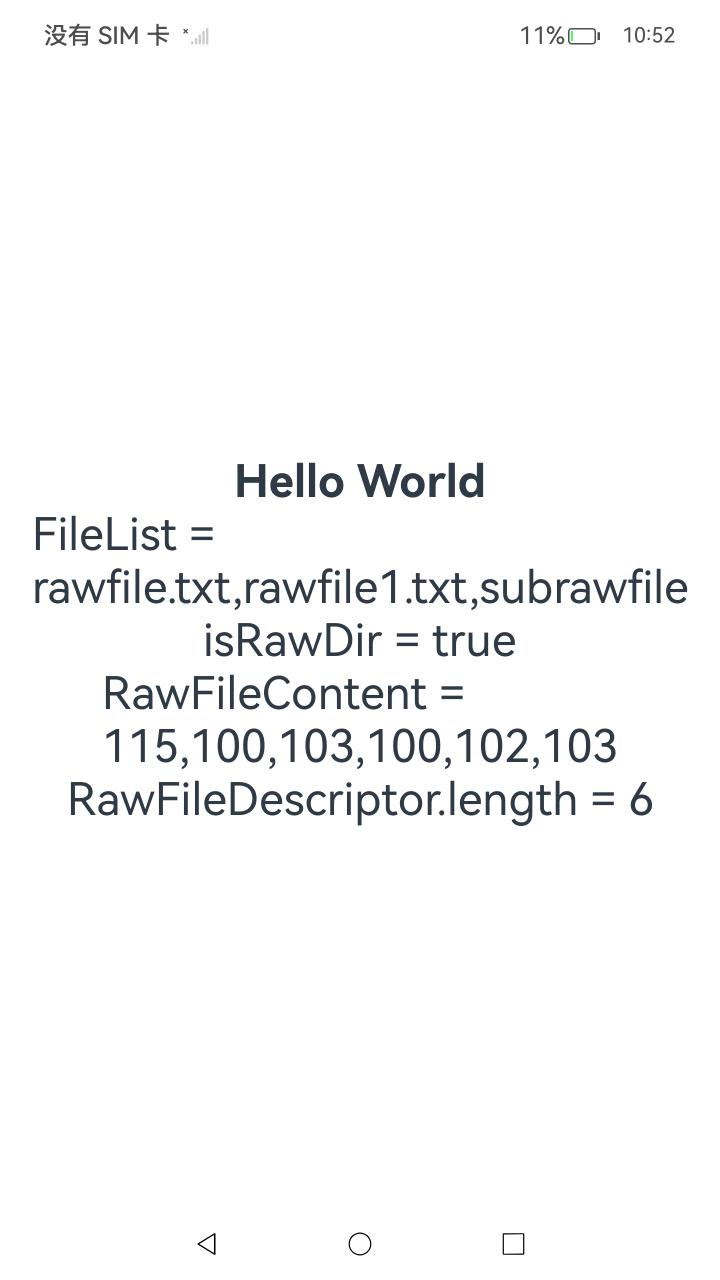
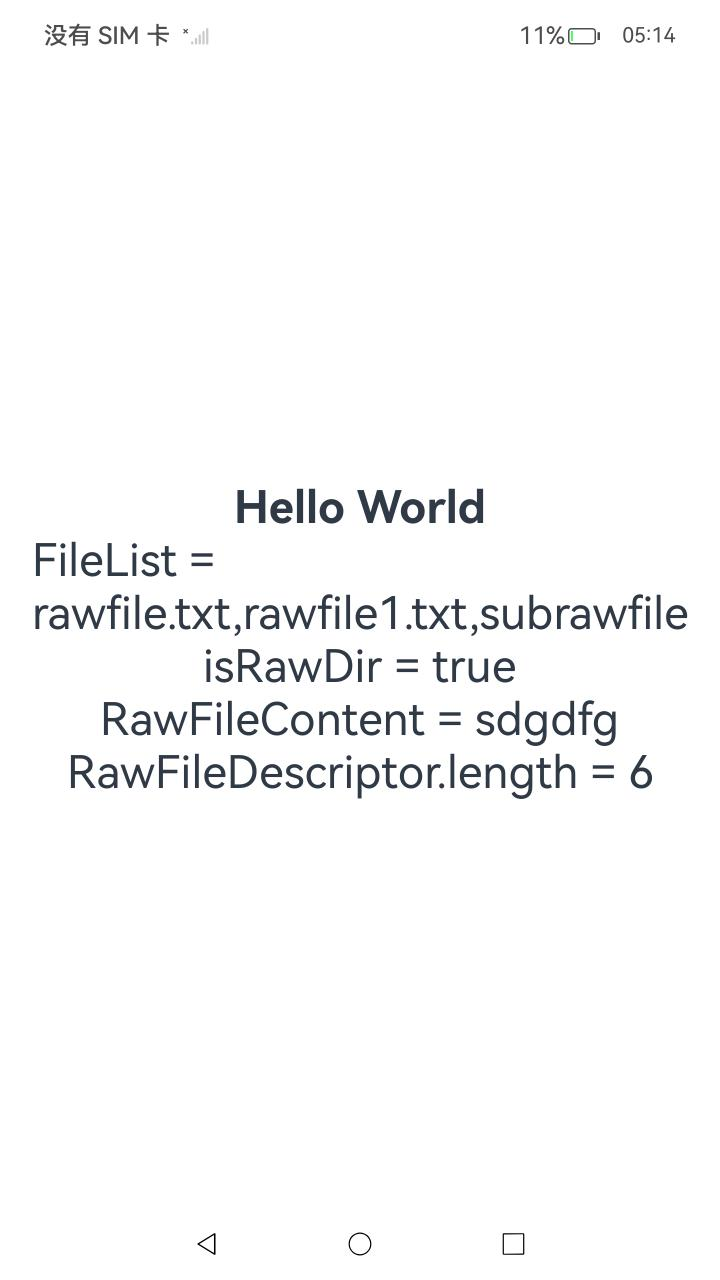
优化Rawfile开发指南示例代码
# Conflicts:
#	code/DocsSample/ResourceManagement/RawFile/entry/src/main/cpp/hello.cpp
#	code/DocsSample/ResourceManagement/RawFile/entry/src/main/ets/pages/Index.ets

Changed region(s): [[0.0306, 0.4062, 0.9472, 0.6562], [0.3056, 0.3438, 0.6722, 0.4062], [0.8556, 0.0, 0.9472, 0.0312]]

diff --git a/code/DocsSample/ResourceManagement/RawFile/entry/src/main/cpp/types/libentry/Index.d.ts b/code/DocsSample/ResourceManagement/RawFile/entry/src/main/cpp/types/libentry/Index.d.ts
@@ -17,4 +17,4 @@ import resourceManager from '@ohos.resourceManager';
 export const getFileList: (resmgr: resourceManager.ResourceManager, path: string) => Array<String>;
 export const getRawFileContent: (resmgr: resourceManager.ResourceManager, path: string) => Uint8Array;
 export const getRawFileDescriptor: (resmgr: resourceManager.ResourceManager, path: string) => resourceManager.RawFileDescriptor;
-export const isRawDir: (resmgr: resourceManager.ResourceManager, path: string) => Boolean;
+export const isRawDir: (resmgr: resourceManager.ResourceManager, path: string) => boolean;

diff --git a/code/DocsSample/ResourceManagement/RawFile/entry/src/main/cpp/hello.cpp b/code/DocsSample/ResourceManagement/RawFile/entry/src/main/cpp/hello.cpp
@@ -13,26 +13,29 @@
  * limitations under the License.
  */
 
+// [Start includes]
 #include <js_native_api.h>
 #include <js_native_api_types.h>
 #include <string>
 #include <vector>
-#include <iostream>
 #include <cstdlib>
 #include "napi/native_api.h"
 #include "rawfile/raw_file_manager.h"
 #include "rawfile/raw_file.h"
 #include "rawfile/raw_dir.h"
 #include "hilog/log.h"
+// [End includes]
 
+// [Start constants]
 const int GLOBAL_RESMGR = 0xFF00;
 const char *TAG = "[Sample_rawfile]";
+// [End constants]
 
+// [Start example_get_file_list]
 // 示例一：获取rawfile文件列表 GetFileList
 static napi_value GetFileList(napi_env env, napi_callback_info info)
 {
-    OH_LOG_Print(LOG_APP, LOG_ERROR, GLOBAL_RESMGR, TAG, "NDKTest Begin");
-    size_t requireArgc = 3;
+    OH_LOG_Print(LOG_APP, LOG_INFO, GLOBAL_RESMGR, TAG, "NDKTest GetFileList Begin");
     size_t argc = 2;
     napi_value argv[2] = { nullptr };
     // 获取参数信息
@@ -74,7 +77,9 @@ static napi_value GetFileList(napi_env env, napi_callback_info info)
     OH_ResourceManager_ReleaseNativeResourceManager(mNativeResMgr);
     return fileList;
 }
+// [End example_get_file_list]
 
+// [Start example_get_rawfile_content]
 // 示例二：获取rawfile文件内容 GetRawFileContent
 napi_value CreateJsArrayValue(napi_env env, std::unique_ptr<uint8_t[]> &data, long length)
 {
@@ -102,8 +107,7 @@ napi_value CreateJsArrayValue(napi_env env, std::unique_ptr<uint8_t[]> &data, lo
 
 static napi_value GetRawFileContent(napi_env env, napi_callback_info info)
 {
-    OH_LOG_Print(LOG_APP, LOG_ERROR, GLOBAL_RESMGR, TAG, "GetFileContent Begin");
-    size_t requireArgc = 3;
+    OH_LOG_Print(LOG_APP, LOG_INFO, GLOBAL_RESMGR, TAG, "GetFileContent Begin");
     size_t argc = 2;
     napi_value argv[2] = { nullptr };
     // 获取参数信息
@@ -119,7 +123,7 @@ static napi_value GetRawFileContent(napi_env env, napi_callback_info info)
     // 获取rawfile指针对象
     RawFile *rawFile = OH_ResourceManager_OpenRawFile(mNativeResMgr, filename.c_str());
     if (rawFile != nullptr) {
-        OH_LOG_Print(LOG_APP, LOG_ERROR, GLOBAL_RESMGR, TAG, "OH_ResourceManager_OpenRawFile success");
+        OH_LOG_Print(LOG_APP, LOG_INFO, GLOBAL_RESMGR, TAG, "OH_ResourceManager_OpenRawFile success");
     }
     // 获取rawfile大小并申请内存
     long len = OH_ResourceManager_GetRawFileSize(rawFile);
@@ -134,7 +138,9 @@ static napi_value GetRawFileContent(napi_env env, napi_callback_info info)
     // 转为js对象
     return CreateJsArrayValue(env, data, len);
 }
+// [End example_get_rawfile_content]
 
+// [Start example_get_rawfile_descriptor]
 // 示例三：获取rawfile文件描述符 GetRawFileDescriptor
 // 定义一个函数，将RawFileDescriptor转为js对象
 napi_value createJsFileDescriptor(napi_env env, RawFileDescriptor& descriptor)
@@ -183,16 +189,13 @@ napi_value createJsFileDescriptor(napi_env env, RawFileDescriptor& descriptor)
 
 static napi_value GetRawFileDescriptor(napi_env env, napi_callback_info info)
 {
-    OH_LOG_Print(LOG_APP, LOG_ERROR, GLOBAL_RESMGR, TAG, "NDKTest GetRawFileDescriptor Begin");
-    size_t requireArgc = 3;
+    OH_LOG_Print(LOG_APP, LOG_INFO, GLOBAL_RESMGR, TAG, "NDKTest GetRawFileDescriptor Begin");
     size_t argc = 2;
     napi_value argv[2] = { nullptr };
     // 获取参数信息
     napi_get_cb_info(env, info, &argc, argv, nullptr, nullptr);
-    
-    napi_valuetype valueType;
-    napi_typeof(env, argv[0], &valueType);
-    // 获取native的resourceManager对象
+
+    // argv[0]即为函数第一个参数Js资源对象，OH_ResourceManager_InitNativeResourceManager转为Native对象
     NativeResourceManager *mNativeResMgr = OH_ResourceManager_InitNativeResourceManager(env, argv[0]);
     size_t strSize;
     char strBuf[256];
@@ -201,7 +204,7 @@ static napi_value GetRawFileDescriptor(napi_env env, napi_callback_info info)
     // 获取rawfile指针对象
     RawFile *rawFile = OH_ResourceManager_OpenRawFile(mNativeResMgr, filename.c_str());
     if (rawFile != nullptr) {
-        OH_LOG_Print(LOG_APP, LOG_ERROR, GLOBAL_RESMGR, TAG, "OH_ResourceManager_OpenRawFile success");
+        OH_LOG_Print(LOG_APP, LOG_INFO, GLOBAL_RESMGR, TAG, "OH_ResourceManager_OpenRawFile success");
     }
     // 获取rawfile的描述符RawFileDescriptor {fd, offset, length}
     RawFileDescriptor descriptor;
@@ -212,7 +215,10 @@ static napi_value GetRawFileDescriptor(napi_env env, napi_callback_info info)
     // 转为js对象
     return createJsFileDescriptor(env, descriptor);
 }
+// [End example_get_rawfile_descriptor]
 
+// [Start example_is_raw_dir]
+// 示例四：判断路径是否是rawfile下的目录 IsRawDir
 napi_value CreateJsBool(napi_env env, bool &bValue)
 {
     napi_value jsValue = nullptr;
@@ -224,21 +230,19 @@ napi_value CreateJsBool(napi_env env, bool &bValue)
 
 static napi_value IsRawDir(napi_env env, napi_callback_info info)
 {
-    OH_LOG_Print(LOG_APP, LOG_ERROR, GLOBAL_RESMGR, TAG, "NDKTest IsRawDir Begin");
-    size_t requireArgc = 3;
+    OH_LOG_Print(LOG_APP, LOG_INFO, GLOBAL_RESMGR, TAG, "NDKTest IsRawDir Begin");
     size_t argc = 2;
     napi_value argv[2] = { nullptr };
     // 获取参数信息
     napi_get_cb_info(env, info, &argc, argv, nullptr, nullptr);
 
-    napi_valuetype valueType;
-    napi_typeof(env, argv[0], &valueType);
-    // 获取native的resourceManager对象
+    // argv[0]即为函数第一个参数Js资源对象，OH_ResourceManager_InitNativeResourceManager转为Native对象
     NativeResourceManager *mNativeResMgr = OH_ResourceManager_InitNativeResourceManager(env, argv[0]);
 
-    napi_valuetype valueType1;
-    napi_typeof(env, argv[1], &valueType);
-    if (valueType1 == napi_undefined || valueType1 == napi_null) {
+    napi_valuetype fileNameType;
+    napi_typeof(env, argv[1], &fileNameType);
+    if (fileNameType == napi_undefined || fileNameType == napi_null) {
+        OH_LOG_Print(LOG_APP, LOG_ERROR, GLOBAL_RESMGR, TAG, "NDKTest file name is null");
         bool temp = false;
         return CreateJsBool(env, temp);
     }
@@ -246,12 +250,14 @@ static napi_value IsRawDir(napi_env env, napi_callback_info info)
     char strBuf[256];
     napi_get_value_string_utf8(env, argv[1], strBuf, sizeof(strBuf), &strSize);
     std::string filename(strBuf, strSize);
-    // 获取rawfile指针对象
-    bool result = OH_ResourceManager_OpenRawFile(mNativeResMgr, filename.c_str());
+    // 判断是否是rawfile下的目录
+    bool result = OH_ResourceManager_IsRawDir(mNativeResMgr, filename.c_str());
     OH_ResourceManager_ReleaseNativeResourceManager(mNativeResMgr);
     return CreateJsBool(env, result);
 }
+// [End example_is_raw_dir]
 
+// [Start module_registration]
 EXTERN_C_START
 static napi_value Init(napi_env env, napi_value exports)
 {
@@ -266,6 +272,7 @@ static napi_value Init(napi_env env, napi_value exports)
     return exports;
 }
 EXTERN_C_END
+// [End module_registration]
 
 static napi_module demoModule = {
     .nm_version = 1,
@@ -281,4 +288,3 @@ extern "C" __attribute__((constructor)) void RegisterEntryModule(void)
 {
     napi_module_register(&demoModule);
 }
-

diff --git a/code/DocsSample/ResourceManagement/RawFile/README.md b/code/DocsSample/ResourceManagement/RawFile/README.md
@@ -2,13 +2,13 @@
 
 ### 介绍
 
-本工程主要实现了[Rawfile开发指导](https://docs.openharmony.cn/pages/v5.0/zh-cn/application-dev/napi/rawfile-guidelines.md)中功能，开发者可以通过本项目了解如何使用Native Rawfile接口操作Rawfile目录和文件。功能包括文件列表遍历、文件打开、搜索、读取和关闭Rawfile。
+本工程主要实现了[Rawfile开发指导](https://gitee.com/openharmony/docs/blob/OpenHarmony-5.1.0-Release/zh-cn/application-dev/napi/rawfile-guidelines.md)中功能，开发者可以通过本项目了解如何使用Native Rawfile接口操作Rawfile目录和文件。功能包括文件列表遍历、文件打开、搜索、读取和关闭Rawfile。
 
 ### 效果预览
 
-| 显示页面                                                     | 点击后日志打印效果                              |
-| ------------------------------------------------------------ | ----------------------------------------------- |
-| ![](screenshots/RawFile_Index1.png) | ![](screenshots/log.png) |
+| 显示页面                                                     | 点击Hello World后的页面                   | 点击后日志打印效果                              |
+| ------------------------------------------------------------|-------------------------------------| ----------------------------------------------- |
+| ![](screenshots/RawFile_Index1.png) | ![](screenshots/RawFile_Index2.png) | ![](screenshots/log.png) |
 
 ### 使用说明
 
@@ -41,8 +41,8 @@ RawFile/entry/src/
 
 ### 具体实现
 
-- 想要使用Native Rawfile接口操作Rawfile目录和文件。功能包括文件列表遍历、文件打开、搜索、读取和关闭Rawfile，需要在CPP目录下的index.d.ts文件中声明应用侧函数getFileList()、getRawFileContent()、getRawFileDescriptor()。
-- 在hallo.cpp中实现getFileList()、getRawFileContent()、getRawFileDescriptor()的具体代码，实际操作逻辑。
+- 想要使用Native Rawfile接口操作Rawfile目录和文件。功能包括文件列表遍历、文件打开、搜索、读取和关闭Rawfile，需要在CPP目录下的index.d.ts文件中声明应用侧函数getFileList()、getRawFileContent()、getRawFileDescriptor()、isRawDir()。
+- 在hello.cpp中实现getFileList()、getRawFileContent()、getRawFileDescriptor()、isRawDir()的具体代码，实际操作逻辑。
 - 在ets目录下的index.ets文件就可以通过import testNapi from "libentry.so";导入相关库，进行对上述函数的调用。
 
 ### 相关权限
@@ -55,9 +55,9 @@ RawFile/entry/src/
 
 ### 约束与限制
 
-1. 本示例仅支持标准系统上运行，支持设备：RK3568；
-2. 本示例为Stage模型，支持API14版本SDK，版本号：5.0.2.58；
-3. 本示例需要使用DevEco Studio Beta1（5.0.5.200）及以上版本才可编译运行；
+1. 本示例仅支持标准系统上运行，支持设备：RK3568。
+2. 本示例为Stage模型，支持API 18版本SDK，版本号：5.1.0.108。
+3. 本示例需要使用DevEco Studio 5.0.4 Release（5.0.11.100）及以上版本才可编译运行。
 
 ### 下载
 
